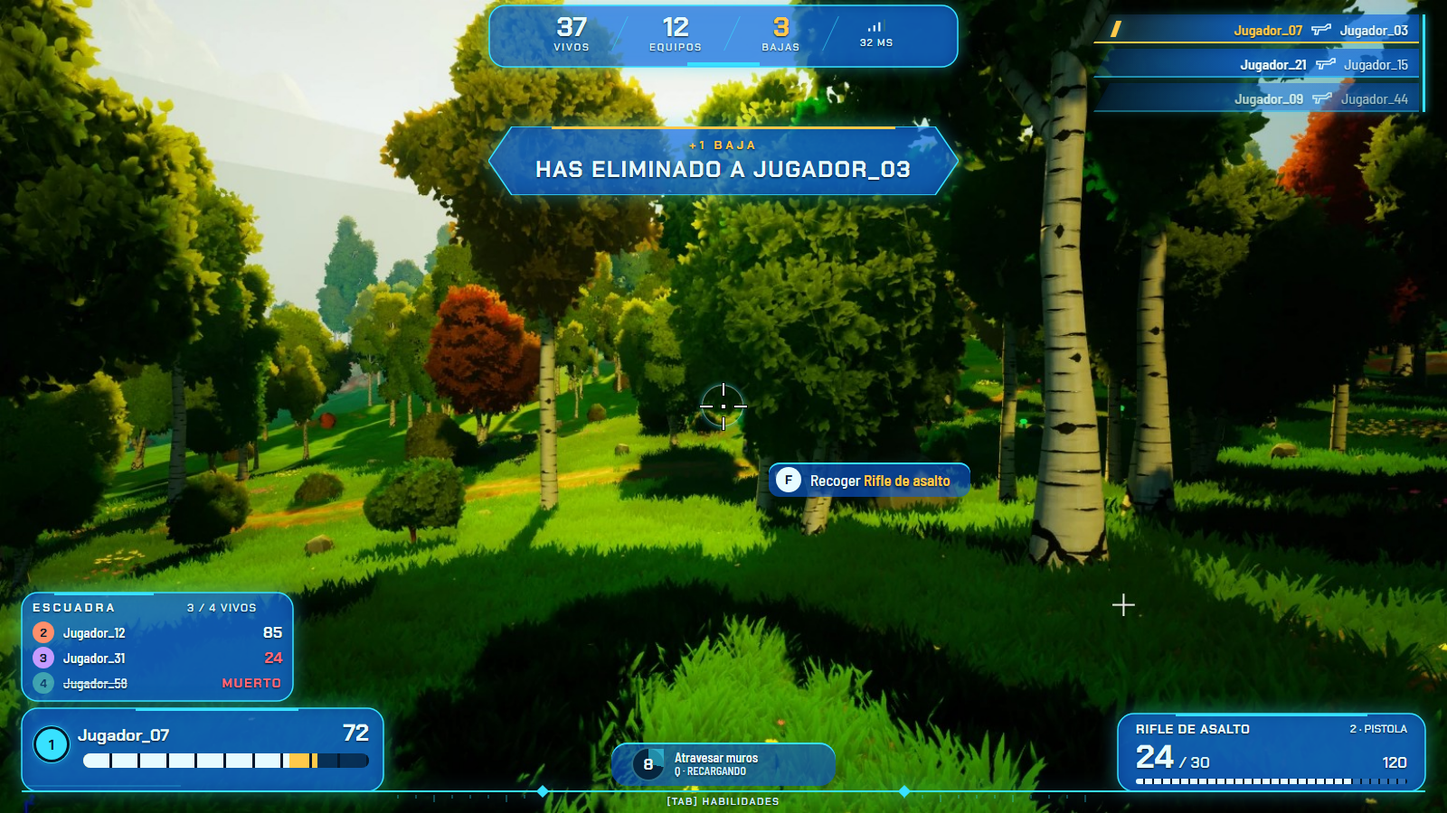
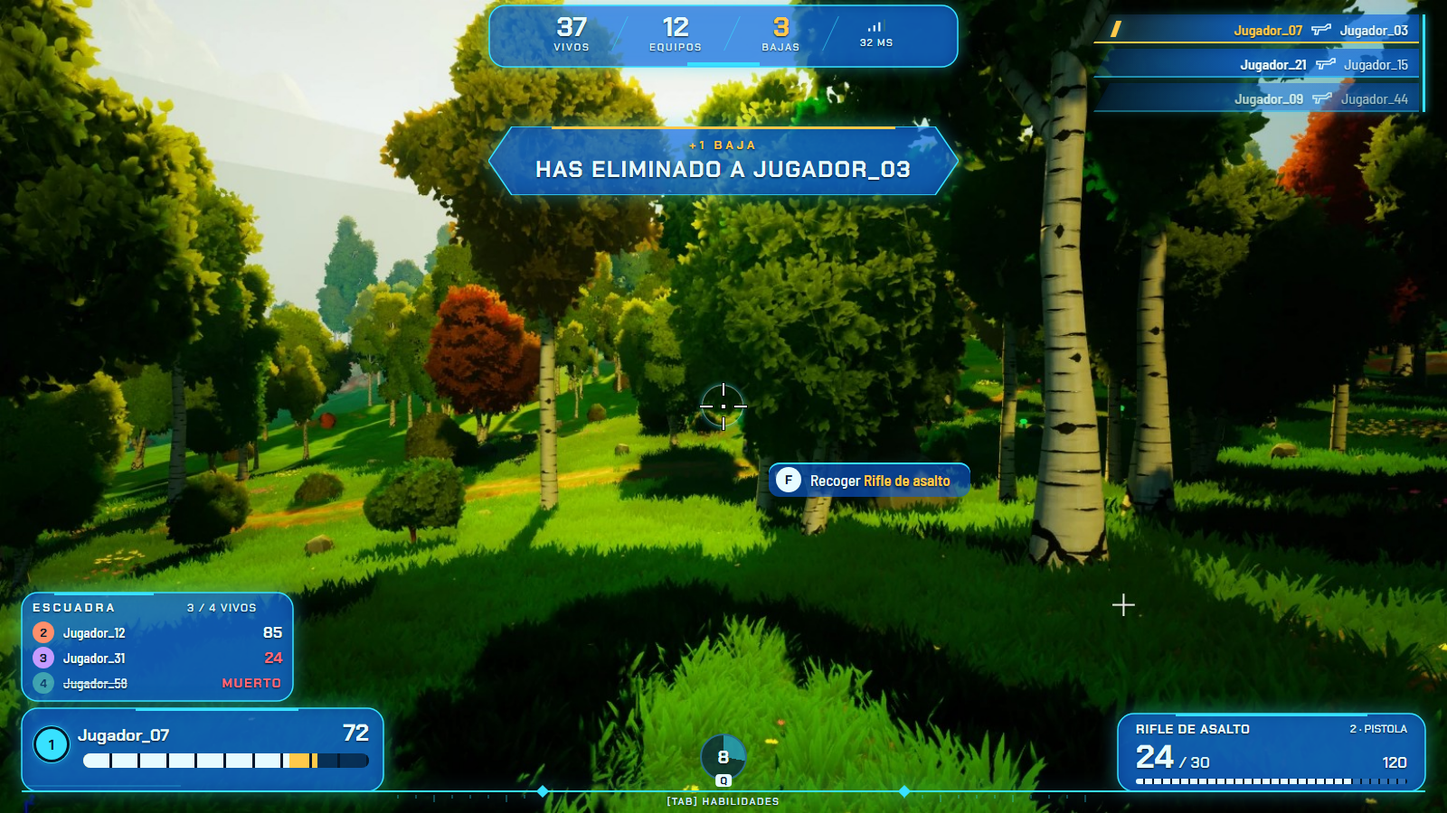
HUD mockup: skills shown as standalone circles without panel

Changed region(s): [[0.4062, 0.9022, 0.5938, 0.9644]]

diff --git a/Doc/UI/Mockups/HUD_Escenario1.dc.html b/Doc/UI/Mockups/HUD_Escenario1.dc.html
@@ -130,47 +130,30 @@ a{color:#38E1FF}a:hover{color:#A6F3FF}
 </div>
 
 <sc-if value="{{showChips}}" hint-placeholder-val="{{ true }}">
-<div style="position: absolute; left: 676px; top: 822px; width: 248px; height: 48px; box-sizing: border-box; display: flex; align-items: center; gap: 10px; padding: 0 22px; background: {{panelFill}}; border-radius: 18px; box-shadow: inset 0 2px 0 {{accent}}">
-<div style="position: relative; width: 38px; height: 38px; flex-shrink: 0; background: #2B6F8A; border-radius: 50%">
-<div style="position: absolute; inset: 2px; background: #06263F; border-radius: 50%">
-<div style="position: absolute; inset: 0; background: conic-gradient({{accent}} 0 100deg, transparent 100deg); opacity: 0.55"></div>
-<div style="position: absolute; inset: 0; display: flex; align-items: center; justify-content: center; font-family: 'Chakra Petch', sans-serif; font-size: 17px; font-weight: 700">8</div>
-</div>
-</div>
-<div style="display: flex; flex-direction: column; line-height: 1.15">
-<span style="font-size: 14px; font-weight: 700">Atravesar muros</span>
-<span style="font-size: 12px; font-weight: 600; color: #D2F1FF">Q · RECARGANDO</span>
+<div style="position: absolute; left: 774px; top: 812px; display: flex; gap: 16px">
+<div style="position: relative; width: 52px; height: 52px; box-sizing: border-box; border-radius: 50%; border: 2px solid #2B6F8A; background: rgba(6,38,63,0.75); display: flex; align-items: center; justify-content: center">
+<div style="position: absolute; inset: 0; border-radius: 50%; background: conic-gradient({{accent}} 0 100deg, transparent 100deg); opacity: 0.55"></div>
+<div style="position: relative; font-family: 'Chakra Petch', sans-serif; font-size: 20px; font-weight: 700">8</div>
+<div style="position: absolute; left: 50%; bottom: -9px; transform: translateX(-50%); padding: 0 5px; border-radius: 4px; white-space: nowrap; background: #E6FBFF; color: #04182C; text-shadow: none; font-family: 'Chakra Petch', sans-serif; font-size: 11px; font-weight: 700">Q</div>
 </div>
 </div>
 <div style="position: absolute; left: 0; top: 880px; width: 1600px; text-align: center; font-family: 'Chakra Petch', sans-serif; font-size: 11px; font-weight: 600; letter-spacing: 0.14em; color: #D2F1FF">[TAB] HABILIDADES</div>
 </sc-if>
 
 <sc-if value="{{skillsPanel}}" hint-placeholder-val="{{ false }}">
-<div style="position: absolute; left: 560px; top: 746px; width: 480px; height: 124px; box-sizing: border-box; padding: 12px 20px 0; display: flex; justify-content: center; align-items: flex-start; gap: 22px; background: {{panelFill}}; border-radius: 18px; box-shadow: inset 0 3px 0 {{accent}}">
-<div style="display: flex; flex-direction: column; align-items: center; gap: 6px">
-<div style="position: relative; width: 66px; height: 66px; background: #2B6F8A; border-radius: 50%">
-<div style="position: absolute; inset: 2px; background: #06263F; border-radius: 50%">
-<div style="position: absolute; inset: 0; background: conic-gradient({{accent}} 0 100deg, transparent 100deg); opacity: 0.55"></div>
-<div style="position: absolute; inset: 0; display: flex; align-items: center; justify-content: center; font-family: 'Chakra Petch', sans-serif; font-size: 24px; font-weight: 700">8</div>
+<div style="position: absolute; left: 0; top: 800px; width: 1600px; display: flex; justify-content: center; gap: 22px">
+<div style="position: relative; width: 64px; height: 64px; box-sizing: border-box; border-radius: 50%; border: 2px solid #2B6F8A; background: rgba(6,38,63,0.75); display: flex; align-items: center; justify-content: center">
+<div style="position: absolute; inset: 0; border-radius: 50%; background: conic-gradient({{accent}} 0 100deg, transparent 100deg); opacity: 0.55"></div>
+<div style="position: relative; font-family: 'Chakra Petch', sans-serif; font-size: 24px; font-weight: 700">8</div>
+<div style="position: absolute; left: 50%; bottom: -9px; transform: translateX(-50%); padding: 0 5px; border-radius: 4px; white-space: nowrap; background: #E6FBFF; color: #04182C; text-shadow: none; font-family: 'Chakra Petch', sans-serif; font-size: 11px; font-weight: 700">Q</div>
 </div>
+<div style="position: relative; width: 64px; height: 64px; box-sizing: border-box; border-radius: 50%; border: 2px solid {{accent}}; background: rgba(6,38,63,0.75); box-shadow: 0 0 12px {{accent}}; display: flex; align-items: center; justify-content: center">
+<svg width="28" height="28" viewBox="0 0 34 34" fill="none" stroke="currentColor" stroke-width="2.4" aria-hidden="true" style="color: {{accent}}"><circle cx="17" cy="17" r="12"></circle><path d="M17 9v16M9 17h16"></path></svg>
+<div style="position: absolute; left: 50%; bottom: -9px; transform: translateX(-50%); padding: 0 5px; border-radius: 4px; white-space: nowrap; background: {{accent}}; color: #04182C; text-shadow: none; font-family: 'Chakra Petch', sans-serif; font-size: 11px; font-weight: 700">E</div>
 </div>
-<div style="display: flex; gap: 6px; align-items: center; font-size: 13px; font-weight: 600; color: #D2F1FF"><span style="padding: 0 5px; background: #E6FBFF; color: #04182C; text-shadow: none; font-family: 'Chakra Petch', sans-serif; font-weight: 700">Q</span>Atravesar muros</div>
-</div>
-<div style="display: flex; flex-direction: column; align-items: center; gap: 6px">
-<div style="position: relative; width: 66px; height: 66px; background: {{accent}}; border-radius: 50%">
-<div style="position: absolute; inset: 3px; background: #06263F; border-radius: 50%; display: flex; align-items: center; justify-content: center; color: {{accent}}">
-<svg width="30" height="30" viewBox="0 0 34 34" fill="none" stroke="currentColor" stroke-width="2.4" aria-hidden="true"><circle cx="17" cy="17" r="12"></circle><path d="M17 9v16M9 17h16"></path></svg>
-</div>
-</div>
-<div style="display: flex; gap: 6px; align-items: center; font-size: 13px; font-weight: 600"><span style="padding: 0 5px; background: {{accent}}; color: #04182C; text-shadow: none; font-family: 'Chakra Petch', sans-serif; font-weight: 700">E</span>[Habilidad 2]</div>
-</div>
-<div style="display: flex; flex-direction: column; align-items: center; gap: 6px">
-<div style="position: relative; width: 66px; height: 66px; background: #2B6F8A; border-radius: 50%">
-<div style="position: absolute; inset: 2px; background: #06263F; border-radius: 50%; display: flex; align-items: center; justify-content: center; color: #7CE0A0">
-<svg width="24" height="24" viewBox="0 0 26 26" fill="none" stroke="currentColor" stroke-width="2.4" aria-hidden="true"><path d="M9 2h8v7h7v8h-7v7H9v-7H2V9h7z"></path></svg>
-</div>
-</div>
-<div style="display: flex; gap: 6px; align-items: center; font-size: 13px; font-weight: 600; color: #D2F1FF"><span style="padding: 0 5px; background: #E6FBFF; color: #04182C; text-shadow: none; font-family: 'Chakra Petch', sans-serif; font-weight: 700">H</span>Curación ×2</div>
+<div style="position: relative; width: 64px; height: 64px; box-sizing: border-box; border-radius: 50%; border: 2px solid #2B6F8A; background: rgba(6,38,63,0.75); display: flex; align-items: center; justify-content: center">
+<svg width="24" height="24" viewBox="0 0 26 26" fill="none" stroke="#7CE0A0" stroke-width="2.4" aria-hidden="true"><path d="M9 2h8v7h7v8h-7v7H9v-7H2V9h7z"></path></svg>
+<div style="position: absolute; left: 50%; bottom: -9px; transform: translateX(-50%); padding: 0 5px; border-radius: 4px; white-space: nowrap; background: #E6FBFF; color: #04182C; text-shadow: none; font-family: 'Chakra Petch', sans-serif; font-size: 11px; font-weight: 700">H ×2</div>
 </div>
 </div>
 <div style="position: absolute; left: 0; top: 880px; width: 1600px; text-align: center; font-family: 'Chakra Petch', sans-serif; font-size: 11px; font-weight: 600; letter-spacing: 0.14em; color: #D2F1FF">[TAB] OCULTAR</div>

diff --git a/Doc/UI/Mockups/HUD_Escenario2.dc.html b/Doc/UI/Mockups/HUD_Escenario2.dc.html
@@ -130,47 +130,30 @@ a{color:#38E1FF}a:hover{color:#A6F3FF}
 </div>
 
 <sc-if value="{{showChips}}" hint-placeholder-val="{{ true }}">
-<div style="position: absolute; left: 676px; top: 822px; width: 248px; height: 48px; box-sizing: border-box; display: flex; align-items: center; gap: 10px; padding: 0 22px; background: {{panelFill}}; border-radius: 18px; box-shadow: inset 0 2px 0 {{accent}}">
-<div style="position: relative; width: 38px; height: 38px; flex-shrink: 0; background: #2B6F8A; border-radius: 50%">
-<div style="position: absolute; inset: 2px; background: #06263F; border-radius: 50%">
-<div style="position: absolute; inset: 0; background: conic-gradient({{accent}} 0 100deg, transparent 100deg); opacity: 0.55"></div>
-<div style="position: absolute; inset: 0; display: flex; align-items: center; justify-content: center; font-family: 'Chakra Petch', sans-serif; font-size: 17px; font-weight: 700">8</div>
-</div>
-</div>
-<div style="display: flex; flex-direction: column; line-height: 1.15">
-<span style="font-size: 14px; font-weight: 700">Atravesar muros</span>
-<span style="font-size: 12px; font-weight: 600; color: #D2F1FF">Q · RECARGANDO</span>
+<div style="position: absolute; left: 774px; top: 812px; display: flex; gap: 16px">
+<div style="position: relative; width: 52px; height: 52px; box-sizing: border-box; border-radius: 50%; border: 2px solid #2B6F8A; background: rgba(6,38,63,0.75); display: flex; align-items: center; justify-content: center">
+<div style="position: absolute; inset: 0; border-radius: 50%; background: conic-gradient({{accent}} 0 100deg, transparent 100deg); opacity: 0.55"></div>
+<div style="position: relative; font-family: 'Chakra Petch', sans-serif; font-size: 20px; font-weight: 700">8</div>
+<div style="position: absolute; left: 50%; bottom: -9px; transform: translateX(-50%); padding: 0 5px; border-radius: 4px; white-space: nowrap; background: #E6FBFF; color: #04182C; text-shadow: none; font-family: 'Chakra Petch', sans-serif; font-size: 11px; font-weight: 700">Q</div>
 </div>
 </div>
 <div style="position: absolute; left: 0; top: 880px; width: 1600px; text-align: center; font-family: 'Chakra Petch', sans-serif; font-size: 11px; font-weight: 600; letter-spacing: 0.14em; color: #D2F1FF">[TAB] HABILIDADES</div>
 </sc-if>
 
 <sc-if value="{{skillsPanel}}" hint-placeholder-val="{{ false }}">
-<div style="position: absolute; left: 560px; top: 746px; width: 480px; height: 124px; box-sizing: border-box; padding: 12px 20px 0; display: flex; justify-content: center; align-items: flex-start; gap: 22px; background: {{panelFill}}; border-radius: 18px; box-shadow: inset 0 3px 0 {{accent}}">
-<div style="display: flex; flex-direction: column; align-items: center; gap: 6px">
-<div style="position: relative; width: 66px; height: 66px; background: #2B6F8A; border-radius: 50%">
-<div style="position: absolute; inset: 2px; background: #06263F; border-radius: 50%">
-<div style="position: absolute; inset: 0; background: conic-gradient({{accent}} 0 100deg, transparent 100deg); opacity: 0.55"></div>
-<div style="position: absolute; inset: 0; display: flex; align-items: center; justify-content: center; font-family: 'Chakra Petch', sans-serif; font-size: 24px; font-weight: 700">8</div>
+<div style="position: absolute; left: 0; top: 800px; width: 1600px; display: flex; justify-content: center; gap: 22px">
+<div style="position: relative; width: 64px; height: 64px; box-sizing: border-box; border-radius: 50%; border: 2px solid #2B6F8A; background: rgba(6,38,63,0.75); display: flex; align-items: center; justify-content: center">
+<div style="position: absolute; inset: 0; border-radius: 50%; background: conic-gradient({{accent}} 0 100deg, transparent 100deg); opacity: 0.55"></div>
+<div style="position: relative; font-family: 'Chakra Petch', sans-serif; font-size: 24px; font-weight: 700">8</div>
+<div style="position: absolute; left: 50%; bottom: -9px; transform: translateX(-50%); padding: 0 5px; border-radius: 4px; white-space: nowrap; background: #E6FBFF; color: #04182C; text-shadow: none; font-family: 'Chakra Petch', sans-serif; font-size: 11px; font-weight: 700">Q</div>
 </div>
+<div style="position: relative; width: 64px; height: 64px; box-sizing: border-box; border-radius: 50%; border: 2px solid {{accent}}; background: rgba(6,38,63,0.75); box-shadow: 0 0 12px {{accent}}; display: flex; align-items: center; justify-content: center">
+<svg width="28" height="28" viewBox="0 0 34 34" fill="none" stroke="currentColor" stroke-width="2.4" aria-hidden="true" style="color: {{accent}}"><circle cx="17" cy="17" r="12"></circle><path d="M17 9v16M9 17h16"></path></svg>
+<div style="position: absolute; left: 50%; bottom: -9px; transform: translateX(-50%); padding: 0 5px; border-radius: 4px; white-space: nowrap; background: {{accent}}; color: #04182C; text-shadow: none; font-family: 'Chakra Petch', sans-serif; font-size: 11px; font-weight: 700">E</div>
 </div>
-<div style="display: flex; gap: 6px; align-items: center; font-size: 13px; font-weight: 600; color: #D2F1FF"><span style="padding: 0 5px; background: #E6FBFF; color: #04182C; text-shadow: none; font-family: 'Chakra Petch', sans-serif; font-weight: 700">Q</span>Atravesar muros</div>
-</div>
-<div style="display: flex; flex-direction: column; align-items: center; gap: 6px">
-<div style="position: relative; width: 66px; height: 66px; background: {{accent}}; border-radius: 50%">
-<div style="position: absolute; inset: 3px; background: #06263F; border-radius: 50%; display: flex; align-items: center; justify-content: center; color: {{accent}}">
-<svg width="30" height="30" viewBox="0 0 34 34" fill="none" stroke="currentColor" stroke-width="2.4" aria-hidden="true"><circle cx="17" cy="17" r="12"></circle><path d="M17 9v16M9 17h16"></path></svg>
-</div>
-</div>
-<div style="display: flex; gap: 6px; align-items: center; font-size: 13px; font-weight: 600"><span style="padding: 0 5px; background: {{accent}}; color: #04182C; text-shadow: none; font-family: 'Chakra Petch', sans-serif; font-weight: 700">E</span>[Habilidad 2]</div>
-</div>
-<div style="display: flex; flex-direction: column; align-items: center; gap: 6px">
-<div style="position: relative; width: 66px; height: 66px; background: #2B6F8A; border-radius: 50%">
-<div style="position: absolute; inset: 2px; background: #06263F; border-radius: 50%; display: flex; align-items: center; justify-content: center; color: #7CE0A0">
-<svg width="24" height="24" viewBox="0 0 26 26" fill="none" stroke="currentColor" stroke-width="2.4" aria-hidden="true"><path d="M9 2h8v7h7v8h-7v7H9v-7H2V9h7z"></path></svg>
-</div>
-</div>
-<div style="display: flex; gap: 6px; align-items: center; font-size: 13px; font-weight: 600; color: #D2F1FF"><span style="padding: 0 5px; background: #E6FBFF; color: #04182C; text-shadow: none; font-family: 'Chakra Petch', sans-serif; font-weight: 700">H</span>Curación ×2</div>
+<div style="position: relative; width: 64px; height: 64px; box-sizing: border-box; border-radius: 50%; border: 2px solid #2B6F8A; background: rgba(6,38,63,0.75); display: flex; align-items: center; justify-content: center">
+<svg width="24" height="24" viewBox="0 0 26 26" fill="none" stroke="#7CE0A0" stroke-width="2.4" aria-hidden="true"><path d="M9 2h8v7h7v8h-7v7H9v-7H2V9h7z"></path></svg>
+<div style="position: absolute; left: 50%; bottom: -9px; transform: translateX(-50%); padding: 0 5px; border-radius: 4px; white-space: nowrap; background: #E6FBFF; color: #04182C; text-shadow: none; font-family: 'Chakra Petch', sans-serif; font-size: 11px; font-weight: 700">H ×2</div>
 </div>
 </div>
 <div style="position: absolute; left: 0; top: 880px; width: 1600px; text-align: center; font-family: 'Chakra Petch', sans-serif; font-size: 11px; font-weight: 600; letter-spacing: 0.14em; color: #D2F1FF">[TAB] OCULTAR</div>

diff --git a/Doc/UI/Mockups/HUD_Escenario3.dc.html b/Doc/UI/Mockups/HUD_Escenario3.dc.html
@@ -130,47 +130,30 @@ a{color:#38E1FF}a:hover{color:#A6F3FF}
 </div>
 
 <sc-if value="{{showChips}}" hint-placeholder-val="{{ true }}">
-<div style="position: absolute; left: 676px; top: 822px; width: 248px; height: 48px; box-sizing: border-box; display: flex; align-items: center; gap: 10px; padding: 0 22px; background: {{panelFill}}; border-radius: 18px; box-shadow: inset 0 2px 0 {{accent}}">
-<div style="position: relative; width: 38px; height: 38px; flex-shrink: 0; background: #2B6F8A; border-radius: 50%">
-<div style="position: absolute; inset: 2px; background: #06263F; border-radius: 50%">
-<div style="position: absolute; inset: 0; background: conic-gradient({{accent}} 0 100deg, transparent 100deg); opacity: 0.55"></div>
-<div style="position: absolute; inset: 0; display: flex; align-items: center; justify-content: center; font-family: 'Chakra Petch', sans-serif; font-size: 17px; font-weight: 700">8</div>
-</div>
-</div>
-<div style="display: flex; flex-direction: column; line-height: 1.15">
-<span style="font-size: 14px; font-weight: 700">Atravesar muros</span>
-<span style="font-size: 12px; font-weight: 600; color: #D2F1FF">Q · RECARGANDO</span>
+<div style="position: absolute; left: 774px; top: 812px; display: flex; gap: 16px">
+<div style="position: relative; width: 52px; height: 52px; box-sizing: border-box; border-radius: 50%; border: 2px solid #2B6F8A; background: rgba(6,38,63,0.75); display: flex; align-items: center; justify-content: center">
+<div style="position: absolute; inset: 0; border-radius: 50%; background: conic-gradient({{accent}} 0 100deg, transparent 100deg); opacity: 0.55"></div>
+<div style="position: relative; font-family: 'Chakra Petch', sans-serif; font-size: 20px; font-weight: 700">8</div>
+<div style="position: absolute; left: 50%; bottom: -9px; transform: translateX(-50%); padding: 0 5px; border-radius: 4px; white-space: nowrap; background: #E6FBFF; color: #04182C; text-shadow: none; font-family: 'Chakra Petch', sans-serif; font-size: 11px; font-weight: 700">Q</div>
 </div>
 </div>
 <div style="position: absolute; left: 0; top: 880px; width: 1600px; text-align: center; font-family: 'Chakra Petch', sans-serif; font-size: 11px; font-weight: 600; letter-spacing: 0.14em; color: #D2F1FF">[TAB] HABILIDADES</div>
 </sc-if>
 
 <sc-if value="{{skillsPanel}}" hint-placeholder-val="{{ false }}">
-<div style="position: absolute; left: 560px; top: 746px; width: 480px; height: 124px; box-sizing: border-box; padding: 12px 20px 0; display: flex; justify-content: center; align-items: flex-start; gap: 22px; background: {{panelFill}}; border-radius: 18px; box-shadow: inset 0 3px 0 {{accent}}">
-<div style="display: flex; flex-direction: column; align-items: center; gap: 6px">
-<div style="position: relative; width: 66px; height: 66px; background: #2B6F8A; border-radius: 50%">
-<div style="position: absolute; inset: 2px; background: #06263F; border-radius: 50%">
-<div style="position: absolute; inset: 0; background: conic-gradient({{accent}} 0 100deg, transparent 100deg); opacity: 0.55"></div>
-<div style="position: absolute; inset: 0; display: flex; align-items: center; justify-content: center; font-family: 'Chakra Petch', sans-serif; font-size: 24px; font-weight: 700">8</div>
+<div style="position: absolute; left: 0; top: 800px; width: 1600px; display: flex; justify-content: center; gap: 22px">
+<div style="position: relative; width: 64px; height: 64px; box-sizing: border-box; border-radius: 50%; border: 2px solid #2B6F8A; background: rgba(6,38,63,0.75); display: flex; align-items: center; justify-content: center">
+<div style="position: absolute; inset: 0; border-radius: 50%; background: conic-gradient({{accent}} 0 100deg, transparent 100deg); opacity: 0.55"></div>
+<div style="position: relative; font-family: 'Chakra Petch', sans-serif; font-size: 24px; font-weight: 700">8</div>
+<div style="position: absolute; left: 50%; bottom: -9px; transform: translateX(-50%); padding: 0 5px; border-radius: 4px; white-space: nowrap; background: #E6FBFF; color: #04182C; text-shadow: none; font-family: 'Chakra Petch', sans-serif; font-size: 11px; font-weight: 700">Q</div>
 </div>
+<div style="position: relative; width: 64px; height: 64px; box-sizing: border-box; border-radius: 50%; border: 2px solid {{accent}}; background: rgba(6,38,63,0.75); box-shadow: 0 0 12px {{accent}}; display: flex; align-items: center; justify-content: center">
+<svg width="28" height="28" viewBox="0 0 34 34" fill="none" stroke="currentColor" stroke-width="2.4" aria-hidden="true" style="color: {{accent}}"><circle cx="17" cy="17" r="12"></circle><path d="M17 9v16M9 17h16"></path></svg>
+<div style="position: absolute; left: 50%; bottom: -9px; transform: translateX(-50%); padding: 0 5px; border-radius: 4px; white-space: nowrap; background: {{accent}}; color: #04182C; text-shadow: none; font-family: 'Chakra Petch', sans-serif; font-size: 11px; font-weight: 700">E</div>
 </div>
-<div style="display: flex; gap: 6px; align-items: center; font-size: 13px; font-weight: 600; color: #D2F1FF"><span style="padding: 0 5px; background: #E6FBFF; color: #04182C; text-shadow: none; font-family: 'Chakra Petch', sans-serif; font-weight: 700">Q</span>Atravesar muros</div>
-</div>
-<div style="display: flex; flex-direction: column; align-items: center; gap: 6px">
-<div style="position: relative; width: 66px; height: 66px; background: {{accent}}; border-radius: 50%">
-<div style="position: absolute; inset: 3px; background: #06263F; border-radius: 50%; display: flex; align-items: center; justify-content: center; color: {{accent}}">
-<svg width="30" height="30" viewBox="0 0 34 34" fill="none" stroke="currentColor" stroke-width="2.4" aria-hidden="true"><circle cx="17" cy="17" r="12"></circle><path d="M17 9v16M9 17h16"></path></svg>
-</div>
-</div>
-<div style="display: flex; gap: 6px; align-items: center; font-size: 13px; font-weight: 600"><span style="padding: 0 5px; background: {{accent}}; color: #04182C; text-shadow: none; font-family: 'Chakra Petch', sans-serif; font-weight: 700">E</span>[Habilidad 2]</div>
-</div>
-<div style="display: flex; flex-direction: column; align-items: center; gap: 6px">
-<div style="position: relative; width: 66px; height: 66px; background: #2B6F8A; border-radius: 50%">
-<div style="position: absolute; inset: 2px; background: #06263F; border-radius: 50%; display: flex; align-items: center; justify-content: center; color: #7CE0A0">
-<svg width="24" height="24" viewBox="0 0 26 26" fill="none" stroke="currentColor" stroke-width="2.4" aria-hidden="true"><path d="M9 2h8v7h7v8h-7v7H9v-7H2V9h7z"></path></svg>
-</div>
-</div>
-<div style="display: flex; gap: 6px; align-items: center; font-size: 13px; font-weight: 600; color: #D2F1FF"><span style="padding: 0 5px; background: #E6FBFF; color: #04182C; text-shadow: none; font-family: 'Chakra Petch', sans-serif; font-weight: 700">H</span>Curación ×2</div>
+<div style="position: relative; width: 64px; height: 64px; box-sizing: border-box; border-radius: 50%; border: 2px solid #2B6F8A; background: rgba(6,38,63,0.75); display: flex; align-items: center; justify-content: center">
+<svg width="24" height="24" viewBox="0 0 26 26" fill="none" stroke="#7CE0A0" stroke-width="2.4" aria-hidden="true"><path d="M9 2h8v7h7v8h-7v7H9v-7H2V9h7z"></path></svg>
+<div style="position: absolute; left: 50%; bottom: -9px; transform: translateX(-50%); padding: 0 5px; border-radius: 4px; white-space: nowrap; background: #E6FBFF; color: #04182C; text-shadow: none; font-family: 'Chakra Petch', sans-serif; font-size: 11px; font-weight: 700">H ×2</div>
 </div>
 </div>
 <div style="position: absolute; left: 0; top: 880px; width: 1600px; text-align: center; font-family: 'Chakra Petch', sans-serif; font-size: 11px; font-weight: 600; letter-spacing: 0.14em; color: #D2F1FF">[TAB] OCULTAR</div>

diff --git a/Doc/UI/Mockups/HUD_Escenario4.dc.html b/Doc/UI/Mockups/HUD_Escenario4.dc.html
@@ -130,47 +130,30 @@ a{color:#38E1FF}a:hover{color:#A6F3FF}
 </div>
 
 <sc-if value="{{showChips}}" hint-placeholder-val="{{ true }}">
-<div style="position: absolute; left: 676px; top: 822px; width: 248px; height: 48px; box-sizing: border-box; display: flex; align-items: center; gap: 10px; padding: 0 22px; background: {{panelFill}}; border-radius: 18px; box-shadow: inset 0 2px 0 {{accent}}">
-<div style="position: relative; width: 38px; height: 38px; flex-shrink: 0; background: #2B6F8A; border-radius: 50%">
-<div style="position: absolute; inset: 2px; background: #06263F; border-radius: 50%">
-<div style="position: absolute; inset: 0; background: conic-gradient({{accent}} 0 100deg, transparent 100deg); opacity: 0.55"></div>
-<div style="position: absolute; inset: 0; display: flex; align-items: center; justify-content: center; font-family: 'Chakra Petch', sans-serif; font-size: 17px; font-weight: 700">8</div>
-</div>
-</div>
-<div style="display: flex; flex-direction: column; line-height: 1.15">
-<span style="font-size: 14px; font-weight: 700">Atravesar muros</span>
-<span style="font-size: 12px; font-weight: 600; color: #D2F1FF">Q · RECARGANDO</span>
+<div style="position: absolute; left: 774px; top: 812px; display: flex; gap: 16px">
+<div style="position: relative; width: 52px; height: 52px; box-sizing: border-box; border-radius: 50%; border: 2px solid #2B6F8A; background: rgba(6,38,63,0.75); display: flex; align-items: center; justify-content: center">
+<div style="position: absolute; inset: 0; border-radius: 50%; background: conic-gradient({{accent}} 0 100deg, transparent 100deg); opacity: 0.55"></div>
+<div style="position: relative; font-family: 'Chakra Petch', sans-serif; font-size: 20px; font-weight: 700">8</div>
+<div style="position: absolute; left: 50%; bottom: -9px; transform: translateX(-50%); padding: 0 5px; border-radius: 4px; white-space: nowrap; background: #E6FBFF; color: #04182C; text-shadow: none; font-family: 'Chakra Petch', sans-serif; font-size: 11px; font-weight: 700">Q</div>
 </div>
 </div>
 <div style="position: absolute; left: 0; top: 880px; width: 1600px; text-align: center; font-family: 'Chakra Petch', sans-serif; font-size: 11px; font-weight: 600; letter-spacing: 0.14em; color: #D2F1FF">[TAB] HABILIDADES</div>
 </sc-if>
 
 <sc-if value="{{skillsPanel}}" hint-placeholder-val="{{ false }}">
-<div style="position: absolute; left: 560px; top: 746px; width: 480px; height: 124px; box-sizing: border-box; padding: 12px 20px 0; display: flex; justify-content: center; align-items: flex-start; gap: 22px; background: {{panelFill}}; border-radius: 18px; box-shadow: inset 0 3px 0 {{accent}}">
-<div style="display: flex; flex-direction: column; align-items: center; gap: 6px">
-<div style="position: relative; width: 66px; height: 66px; background: #2B6F8A; border-radius: 50%">
-<div style="position: absolute; inset: 2px; background: #06263F; border-radius: 50%">
-<div style="position: absolute; inset: 0; background: conic-gradient({{accent}} 0 100deg, transparent 100deg); opacity: 0.55"></div>
-<div style="position: absolute; inset: 0; display: flex; align-items: center; justify-content: center; font-family: 'Chakra Petch', sans-serif; font-size: 24px; font-weight: 700">8</div>
+<div style="position: absolute; left: 0; top: 800px; width: 1600px; display: flex; justify-content: center; gap: 22px">
+<div style="position: relative; width: 64px; height: 64px; box-sizing: border-box; border-radius: 50%; border: 2px solid #2B6F8A; background: rgba(6,38,63,0.75); display: flex; align-items: center; justify-content: center">
+<div style="position: absolute; inset: 0; border-radius: 50%; background: conic-gradient({{accent}} 0 100deg, transparent 100deg); opacity: 0.55"></div>
+<div style="position: relative; font-family: 'Chakra Petch', sans-serif; font-size: 24px; font-weight: 700">8</div>
+<div style="position: absolute; left: 50%; bottom: -9px; transform: translateX(-50%); padding: 0 5px; border-radius: 4px; white-space: nowrap; background: #E6FBFF; color: #04182C; text-shadow: none; font-family: 'Chakra Petch', sans-serif; font-size: 11px; font-weight: 700">Q</div>
 </div>
+<div style="position: relative; width: 64px; height: 64px; box-sizing: border-box; border-radius: 50%; border: 2px solid {{accent}}; background: rgba(6,38,63,0.75); box-shadow: 0 0 12px {{accent}}; display: flex; align-items: center; justify-content: center">
+<svg width="28" height="28" viewBox="0 0 34 34" fill="none" stroke="currentColor" stroke-width="2.4" aria-hidden="true" style="color: {{accent}}"><circle cx="17" cy="17" r="12"></circle><path d="M17 9v16M9 17h16"></path></svg>
+<div style="position: absolute; left: 50%; bottom: -9px; transform: translateX(-50%); padding: 0 5px; border-radius: 4px; white-space: nowrap; background: {{accent}}; color: #04182C; text-shadow: none; font-family: 'Chakra Petch', sans-serif; font-size: 11px; font-weight: 700">E</div>
 </div>
-<div style="display: flex; gap: 6px; align-items: center; font-size: 13px; font-weight: 600; color: #D2F1FF"><span style="padding: 0 5px; background: #E6FBFF; color: #04182C; text-shadow: none; font-family: 'Chakra Petch', sans-serif; font-weight: 700">Q</span>Atravesar muros</div>
-</div>
-<div style="display: flex; flex-direction: column; align-items: center; gap: 6px">
-<div style="position: relative; width: 66px; height: 66px; background: {{accent}}; border-radius: 50%">
-<div style="position: absolute; inset: 3px; background: #06263F; border-radius: 50%; display: flex; align-items: center; justify-content: center; color: {{accent}}">
-<svg width="30" height="30" viewBox="0 0 34 34" fill="none" stroke="currentColor" stroke-width="2.4" aria-hidden="true"><circle cx="17" cy="17" r="12"></circle><path d="M17 9v16M9 17h16"></path></svg>
-</div>
-</div>
-<div style="display: flex; gap: 6px; align-items: center; font-size: 13px; font-weight: 600"><span style="padding: 0 5px; background: {{accent}}; color: #04182C; text-shadow: none; font-family: 'Chakra Petch', sans-serif; font-weight: 700">E</span>[Habilidad 2]</div>
-</div>
-<div style="display: flex; flex-direction: column; align-items: center; gap: 6px">
-<div style="position: relative; width: 66px; height: 66px; background: #2B6F8A; border-radius: 50%">
-<div style="position: absolute; inset: 2px; background: #06263F; border-radius: 50%; display: flex; align-items: center; justify-content: center; color: #7CE0A0">
-<svg width="24" height="24" viewBox="0 0 26 26" fill="none" stroke="currentColor" stroke-width="2.4" aria-hidden="true"><path d="M9 2h8v7h7v8h-7v7H9v-7H2V9h7z"></path></svg>
-</div>
-</div>
-<div style="display: flex; gap: 6px; align-items: center; font-size: 13px; font-weight: 600; color: #D2F1FF"><span style="padding: 0 5px; background: #E6FBFF; color: #04182C; text-shadow: none; font-family: 'Chakra Petch', sans-serif; font-weight: 700">H</span>Curación ×2</div>
+<div style="position: relative; width: 64px; height: 64px; box-sizing: border-box; border-radius: 50%; border: 2px solid #2B6F8A; background: rgba(6,38,63,0.75); display: flex; align-items: center; justify-content: center">
+<svg width="24" height="24" viewBox="0 0 26 26" fill="none" stroke="#7CE0A0" stroke-width="2.4" aria-hidden="true"><path d="M9 2h8v7h7v8h-7v7H9v-7H2V9h7z"></path></svg>
+<div style="position: absolute; left: 50%; bottom: -9px; transform: translateX(-50%); padding: 0 5px; border-radius: 4px; white-space: nowrap; background: #E6FBFF; color: #04182C; text-shadow: none; font-family: 'Chakra Petch', sans-serif; font-size: 11px; font-weight: 700">H ×2</div>
 </div>
 </div>
 <div style="position: absolute; left: 0; top: 880px; width: 1600px; text-align: center; font-family: 'Chakra Petch', sans-serif; font-size: 11px; font-weight: 600; letter-spacing: 0.14em; color: #D2F1FF">[TAB] OCULTAR</div>

diff --git a/Doc/UI/Mockups/HUD_Escenario5.dc.html b/Doc/UI/Mockups/HUD_Escenario5.dc.html
@@ -130,47 +130,30 @@ a{color:#38E1FF}a:hover{color:#A6F3FF}
 </div>
 
 <sc-if value="{{showChips}}" hint-placeholder-val="{{ true }}">
-<div style="position: absolute; left: 676px; top: 822px; width: 248px; height: 48px; box-sizing: border-box; display: flex; align-items: center; gap: 10px; padding: 0 22px; background: {{panelFill}}; border-radius: 18px; box-shadow: inset 0 2px 0 {{accent}}">
-<div style="position: relative; width: 38px; height: 38px; flex-shrink: 0; background: #2B6F8A; border-radius: 50%">
-<div style="position: absolute; inset: 2px; background: #06263F; border-radius: 50%">
-<div style="position: absolute; inset: 0; background: conic-gradient({{accent}} 0 100deg, transparent 100deg); opacity: 0.55"></div>
-<div style="position: absolute; inset: 0; display: flex; align-items: center; justify-content: center; font-family: 'Chakra Petch', sans-serif; font-size: 17px; font-weight: 700">8</div>
-</div>
-</div>
-<div style="display: flex; flex-direction: column; line-height: 1.15">
-<span style="font-size: 14px; font-weight: 700">Atravesar muros</span>
-<span style="font-size: 12px; font-weight: 600; color: #D2F1FF">Q · RECARGANDO</span>
+<div style="position: absolute; left: 774px; top: 812px; display: flex; gap: 16px">
+<div style="position: relative; width: 52px; height: 52px; box-sizing: border-box; border-radius: 50%; border: 2px solid #2B6F8A; background: rgba(6,38,63,0.75); display: flex; align-items: center; justify-content: center">
+<div style="position: absolute; inset: 0; border-radius: 50%; background: conic-gradient({{accent}} 0 100deg, transparent 100deg); opacity: 0.55"></div>
+<div style="position: relative; font-family: 'Chakra Petch', sans-serif; font-size: 20px; font-weight: 700">8</div>
+<div style="position: absolute; left: 50%; bottom: -9px; transform: translateX(-50%); padding: 0 5px; border-radius: 4px; white-space: nowrap; background: #E6FBFF; color: #04182C; text-shadow: none; font-family: 'Chakra Petch', sans-serif; font-size: 11px; font-weight: 700">Q</div>
 </div>
 </div>
 <div style="position: absolute; left: 0; top: 880px; width: 1600px; text-align: center; font-family: 'Chakra Petch', sans-serif; font-size: 11px; font-weight: 600; letter-spacing: 0.14em; color: #D2F1FF">[TAB] HABILIDADES</div>
 </sc-if>
 
 <sc-if value="{{skillsPanel}}" hint-placeholder-val="{{ false }}">
-<div style="position: absolute; left: 560px; top: 746px; width: 480px; height: 124px; box-sizing: border-box; padding: 12px 20px 0; display: flex; justify-content: center; align-items: flex-start; gap: 22px; background: {{panelFill}}; border-radius: 18px; box-shadow: inset 0 3px 0 {{accent}}">
-<div style="display: flex; flex-direction: column; align-items: center; gap: 6px">
-<div style="position: relative; width: 66px; height: 66px; background: #2B6F8A; border-radius: 50%">
-<div style="position: absolute; inset: 2px; background: #06263F; border-radius: 50%">
-<div style="position: absolute; inset: 0; background: conic-gradient({{accent}} 0 100deg, transparent 100deg); opacity: 0.55"></div>
-<div style="position: absolute; inset: 0; display: flex; align-items: center; justify-content: center; font-family: 'Chakra Petch', sans-serif; font-size: 24px; font-weight: 700">8</div>
+<div style="position: absolute; left: 0; top: 800px; width: 1600px; display: flex; justify-content: center; gap: 22px">
+<div style="position: relative; width: 64px; height: 64px; box-sizing: border-box; border-radius: 50%; border: 2px solid #2B6F8A; background: rgba(6,38,63,0.75); display: flex; align-items: center; justify-content: center">
+<div style="position: absolute; inset: 0; border-radius: 50%; background: conic-gradient({{accent}} 0 100deg, transparent 100deg); opacity: 0.55"></div>
+<div style="position: relative; font-family: 'Chakra Petch', sans-serif; font-size: 24px; font-weight: 700">8</div>
+<div style="position: absolute; left: 50%; bottom: -9px; transform: translateX(-50%); padding: 0 5px; border-radius: 4px; white-space: nowrap; background: #E6FBFF; color: #04182C; text-shadow: none; font-family: 'Chakra Petch', sans-serif; font-size: 11px; font-weight: 700">Q</div>
 </div>
+<div style="position: relative; width: 64px; height: 64px; box-sizing: border-box; border-radius: 50%; border: 2px solid {{accent}}; background: rgba(6,38,63,0.75); box-shadow: 0 0 12px {{accent}}; display: flex; align-items: center; justify-content: center">
+<svg width="28" height="28" viewBox="0 0 34 34" fill="none" stroke="currentColor" stroke-width="2.4" aria-hidden="true" style="color: {{accent}}"><circle cx="17" cy="17" r="12"></circle><path d="M17 9v16M9 17h16"></path></svg>
+<div style="position: absolute; left: 50%; bottom: -9px; transform: translateX(-50%); padding: 0 5px; border-radius: 4px; white-space: nowrap; background: {{accent}}; color: #04182C; text-shadow: none; font-family: 'Chakra Petch', sans-serif; font-size: 11px; font-weight: 700">E</div>
 </div>
-<div style="display: flex; gap: 6px; align-items: center; font-size: 13px; font-weight: 600; color: #D2F1FF"><span style="padding: 0 5px; background: #E6FBFF; color: #04182C; text-shadow: none; font-family: 'Chakra Petch', sans-serif; font-weight: 700">Q</span>Atravesar muros</div>
-</div>
-<div style="display: flex; flex-direction: column; align-items: center; gap: 6px">
-<div style="position: relative; width: 66px; height: 66px; background: {{accent}}; border-radius: 50%">
-<div style="position: absolute; inset: 3px; background: #06263F; border-radius: 50%; display: flex; align-items: center; justify-content: center; color: {{accent}}">
-<svg width="30" height="30" viewBox="0 0 34 34" fill="none" stroke="currentColor" stroke-width="2.4" aria-hidden="true"><circle cx="17" cy="17" r="12"></circle><path d="M17 9v16M9 17h16"></path></svg>
-</div>
-</div>
-<div style="display: flex; gap: 6px; align-items: center; font-size: 13px; font-weight: 600"><span style="padding: 0 5px; background: {{accent}}; color: #04182C; text-shadow: none; font-family: 'Chakra Petch', sans-serif; font-weight: 700">E</span>[Habilidad 2]</div>
-</div>
-<div style="display: flex; flex-direction: column; align-items: center; gap: 6px">
-<div style="position: relative; width: 66px; height: 66px; background: #2B6F8A; border-radius: 50%">
-<div style="position: absolute; inset: 2px; background: #06263F; border-radius: 50%; display: flex; align-items: center; justify-content: center; color: #7CE0A0">
-<svg width="24" height="24" viewBox="0 0 26 26" fill="none" stroke="currentColor" stroke-width="2.4" aria-hidden="true"><path d="M9 2h8v7h7v8h-7v7H9v-7H2V9h7z"></path></svg>
-</div>
-</div>
-<div style="display: flex; gap: 6px; align-items: center; font-size: 13px; font-weight: 600; color: #D2F1FF"><span style="padding: 0 5px; background: #E6FBFF; color: #04182C; text-shadow: none; font-family: 'Chakra Petch', sans-serif; font-weight: 700">H</span>Curación ×2</div>
+<div style="position: relative; width: 64px; height: 64px; box-sizing: border-box; border-radius: 50%; border: 2px solid #2B6F8A; background: rgba(6,38,63,0.75); display: flex; align-items: center; justify-content: center">
+<svg width="24" height="24" viewBox="0 0 26 26" fill="none" stroke="#7CE0A0" stroke-width="2.4" aria-hidden="true"><path d="M9 2h8v7h7v8h-7v7H9v-7H2V9h7z"></path></svg>
+<div style="position: absolute; left: 50%; bottom: -9px; transform: translateX(-50%); padding: 0 5px; border-radius: 4px; white-space: nowrap; background: #E6FBFF; color: #04182C; text-shadow: none; font-family: 'Chakra Petch', sans-serif; font-size: 11px; font-weight: 700">H ×2</div>
 </div>
 </div>
 <div style="position: absolute; left: 0; top: 880px; width: 1600px; text-align: center; font-family: 'Chakra Petch', sans-serif; font-size: 11px; font-weight: 600; letter-spacing: 0.14em; color: #D2F1FF">[TAB] OCULTAR</div>

diff --git a/Doc/UI/Mockups/Main.dc.html b/Doc/UI/Mockups/Main.dc.html
@@ -135,47 +135,30 @@ a{color:#38E1FF}a:hover{color:#A6F3FF}
 </div>
 
 <sc-if value="{{showChips}}" hint-placeholder-val="{{ true }}">
-<div style="position: absolute; left: 676px; top: 822px; width: 248px; height: 48px; box-sizing: border-box; display: flex; align-items: center; gap: 10px; padding: 0 22px; background: {{panelFill}}; border-radius: 18px; box-shadow: inset 0 2px 0 {{accent}}">
-<div style="position: relative; width: 38px; height: 38px; flex-shrink: 0; background: #2B6F8A; border-radius: 50%">
-<div style="position: absolute; inset: 2px; background: #06263F; border-radius: 50%">
-<div style="position: absolute; inset: 0; background: conic-gradient({{accent}} 0 100deg, transparent 100deg); opacity: 0.55"></div>
-<div style="position: absolute; inset: 0; display: flex; align-items: center; justify-content: center; font-family: 'Chakra Petch', sans-serif; font-size: 17px; font-weight: 700">8</div>
-</div>
-</div>
-<div style="display: flex; flex-direction: column; line-height: 1.15">
-<span style="font-size: 14px; font-weight: 700">Atravesar muros</span>
-<span style="font-size: 12px; font-weight: 600; color: #D2F1FF">Q · RECARGANDO</span>
+<div style="position: absolute; left: 774px; top: 812px; display: flex; gap: 16px">
+<div style="position: relative; width: 52px; height: 52px; box-sizing: border-box; border-radius: 50%; border: 2px solid #2B6F8A; background: rgba(6,38,63,0.75); display: flex; align-items: center; justify-content: center">
+<div style="position: absolute; inset: 0; border-radius: 50%; background: conic-gradient({{accent}} 0 100deg, transparent 100deg); opacity: 0.55"></div>
+<div style="position: relative; font-family: 'Chakra Petch', sans-serif; font-size: 20px; font-weight: 700">8</div>
+<div style="position: absolute; left: 50%; bottom: -9px; transform: translateX(-50%); padding: 0 5px; border-radius: 4px; white-space: nowrap; background: #E6FBFF; color: #04182C; text-shadow: none; font-family: 'Chakra Petch', sans-serif; font-size: 11px; font-weight: 700">Q</div>
 </div>
 </div>
 <div style="position: absolute; left: 0; top: 880px; width: 1600px; text-align: center; font-family: 'Chakra Petch', sans-serif; font-size: 11px; font-weight: 600; letter-spacing: 0.14em; color: #D2F1FF">[TAB] HABILIDADES</div>
 </sc-if>
 
 <sc-if value="{{skillsPanel}}" hint-placeholder-val="{{ false }}">
-<div style="position: absolute; left: 560px; top: 746px; width: 480px; height: 124px; box-sizing: border-box; padding: 12px 20px 0; display: flex; justify-content: center; align-items: flex-start; gap: 22px; background: {{panelFill}}; border-radius: 18px; box-shadow: inset 0 3px 0 {{accent}}">
-<div style="display: flex; flex-direction: column; align-items: center; gap: 6px">
-<div style="position: relative; width: 66px; height: 66px; background: #2B6F8A; border-radius: 50%">
-<div style="position: absolute; inset: 2px; background: #06263F; border-radius: 50%">
-<div style="position: absolute; inset: 0; background: conic-gradient({{accent}} 0 100deg, transparent 100deg); opacity: 0.55"></div>
-<div style="position: absolute; inset: 0; display: flex; align-items: center; justify-content: center; font-family: 'Chakra Petch', sans-serif; font-size: 24px; font-weight: 700">8</div>
+<div style="position: absolute; left: 0; top: 800px; width: 1600px; display: flex; justify-content: center; gap: 22px">
+<div style="position: relative; width: 64px; height: 64px; box-sizing: border-box; border-radius: 50%; border: 2px solid #2B6F8A; background: rgba(6,38,63,0.75); display: flex; align-items: center; justify-content: center">
+<div style="position: absolute; inset: 0; border-radius: 50%; background: conic-gradient({{accent}} 0 100deg, transparent 100deg); opacity: 0.55"></div>
+<div style="position: relative; font-family: 'Chakra Petch', sans-serif; font-size: 24px; font-weight: 700">8</div>
+<div style="position: absolute; left: 50%; bottom: -9px; transform: translateX(-50%); padding: 0 5px; border-radius: 4px; white-space: nowrap; background: #E6FBFF; color: #04182C; text-shadow: none; font-family: 'Chakra Petch', sans-serif; font-size: 11px; font-weight: 700">Q</div>
 </div>
+<div style="position: relative; width: 64px; height: 64px; box-sizing: border-box; border-radius: 50%; border: 2px solid {{accent}}; background: rgba(6,38,63,0.75); box-shadow: 0 0 12px {{accent}}; display: flex; align-items: center; justify-content: center">
+<svg width="28" height="28" viewBox="0 0 34 34" fill="none" stroke="currentColor" stroke-width="2.4" aria-hidden="true" style="color: {{accent}}"><circle cx="17" cy="17" r="12"></circle><path d="M17 9v16M9 17h16"></path></svg>
+<div style="position: absolute; left: 50%; bottom: -9px; transform: translateX(-50%); padding: 0 5px; border-radius: 4px; white-space: nowrap; background: {{accent}}; color: #04182C; text-shadow: none; font-family: 'Chakra Petch', sans-serif; font-size: 11px; font-weight: 700">E</div>
 </div>
-<div style="display: flex; gap: 6px; align-items: center; font-size: 13px; font-weight: 600; color: #D2F1FF"><span style="padding: 0 5px; background: #E6FBFF; color: #04182C; text-shadow: none; font-family: 'Chakra Petch', sans-serif; font-weight: 700">Q</span>Atravesar muros</div>
-</div>
-<div style="display: flex; flex-direction: column; align-items: center; gap: 6px">
-<div style="position: relative; width: 66px; height: 66px; background: {{accent}}; border-radius: 50%">
-<div style="position: absolute; inset: 3px; background: #06263F; border-radius: 50%; display: flex; align-items: center; justify-content: center; color: {{accent}}">
-<svg width="30" height="30" viewBox="0 0 34 34" fill="none" stroke="currentColor" stroke-width="2.4" aria-hidden="true"><circle cx="17" cy="17" r="12"></circle><path d="M17 9v16M9 17h16"></path></svg>
-</div>
-</div>
-<div style="display: flex; gap: 6px; align-items: center; font-size: 13px; font-weight: 600"><span style="padding: 0 5px; background: {{accent}}; color: #04182C; text-shadow: none; font-family: 'Chakra Petch', sans-serif; font-weight: 700">E</span>[Habilidad 2]</div>
-</div>
-<div style="display: flex; flex-direction: column; align-items: center; gap: 6px">
-<div style="position: relative; width: 66px; height: 66px; background: #2B6F8A; border-radius: 50%">
-<div style="position: absolute; inset: 2px; background: #06263F; border-radius: 50%; display: flex; align-items: center; justify-content: center; color: #7CE0A0">
-<svg width="24" height="24" viewBox="0 0 26 26" fill="none" stroke="currentColor" stroke-width="2.4" aria-hidden="true"><path d="M9 2h8v7h7v8h-7v7H9v-7H2V9h7z"></path></svg>
-</div>
-</div>
-<div style="display: flex; gap: 6px; align-items: center; font-size: 13px; font-weight: 600; color: #D2F1FF"><span style="padding: 0 5px; background: #E6FBFF; color: #04182C; text-shadow: none; font-family: 'Chakra Petch', sans-serif; font-weight: 700">H</span>Curación ×2</div>
+<div style="position: relative; width: 64px; height: 64px; box-sizing: border-box; border-radius: 50%; border: 2px solid #2B6F8A; background: rgba(6,38,63,0.75); display: flex; align-items: center; justify-content: center">
+<svg width="24" height="24" viewBox="0 0 26 26" fill="none" stroke="#7CE0A0" stroke-width="2.4" aria-hidden="true"><path d="M9 2h8v7h7v8h-7v7H9v-7H2V9h7z"></path></svg>
+<div style="position: absolute; left: 50%; bottom: -9px; transform: translateX(-50%); padding: 0 5px; border-radius: 4px; white-space: nowrap; background: #E6FBFF; color: #04182C; text-shadow: none; font-family: 'Chakra Petch', sans-serif; font-size: 11px; font-weight: 700">H ×2</div>
 </div>
 </div>
 <div style="position: absolute; left: 0; top: 880px; width: 1600px; text-align: center; font-family: 'Chakra Petch', sans-serif; font-size: 11px; font-weight: 600; letter-spacing: 0.14em; color: #D2F1FF">[TAB] OCULTAR</div>
